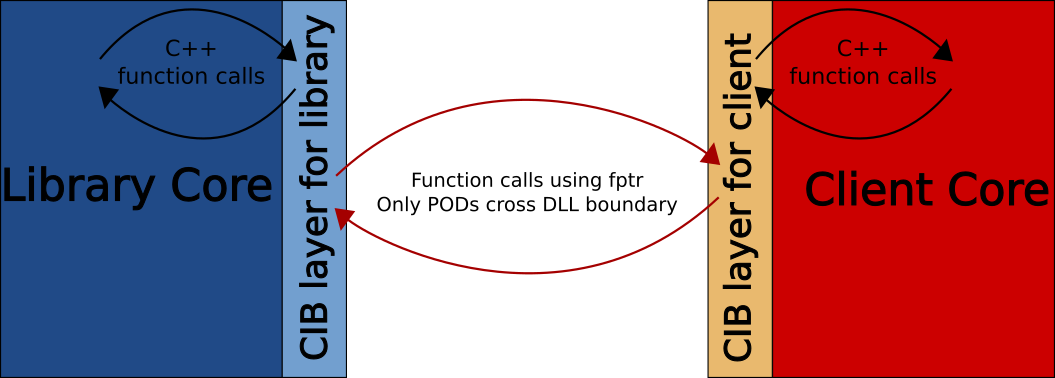
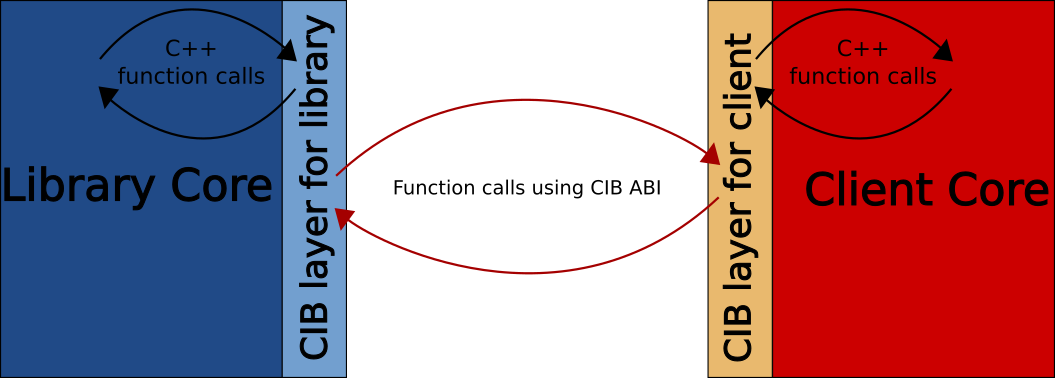
More documentation simplification.

Changed region(s): [[0.3336, 0.4656, 0.637, 0.582]]

diff --git a/README.md b/README.md
@@ -82,24 +82,9 @@ Some changes are conceptually unimportant for clients of a library but they brea
 # CIB Architecture
 
 ## Core architecture concept
-Because language feature implementations end up being ABI, see [What is ABI](#what-is-abi), CIB provides different implementation of language features at component boundary. So, the core of CIB architecture is to implement C++ language features differently at componenet boundary in such a way that the ABI can be guaranteed to bo compatible and easier to ensure stability.
-
-## High level architecture
-The high level architecture is that there will be thin layers added to both Library and Client. These layers will have code to ensure ABI compatible communication between the two layers. These layers will communicate with their corresponding component in usual way because they will always be compiled together and so no special things need to be done. Graphically it can be depicted as:
+As we know language feature implementations end up being ABI, see [What is ABI](#what-is-abi), CIB provides different implementation of language features at component boundary in such a way that the ABI can be guaranteed to be compatible and easier to ensure stability. Graphically it can be depicted as:
 
 ![Integration architecture produced by CIB](img/cib_design.png "Integration architecture produced by CIB ")
-
-### Library Side Glue Code
-The code that forms library side layer is called **library side glue code**. This layer contains the code to represent class as set of free functions. These free functions for a class are bundled together in an array. This array of pointers-to-free-functions is called **MethodTable**. To avoid name mangling done by compilers that ruin the ABI compatibility, the library needs to export the MethodTable instead.
-
-### Client Side Glue Code
-The code that forms client side layer is called **client side glue code**. This layer contains the code to reconstruct the class back from the MethodTable exported by library.
-
-### ABI Compatibility
-Since no C++ functions or objects are exported by library there is no problem of ABI compatibility. Anything that is exported by library is MethodTable which can be exported using `extern "C"` and so name mangling doesn't come into play.
-
-### ABI Stability
-Since only thing that is shared between client and library is MethodTable maintaining it's stability ensures ABI stability across releases.
 
 ## CIB Architecture Elements
 
@@ -109,7 +94,6 @@ Since only thing that is shared between client and library is MethodTable mainta
 - One set of files, that is called library side glue code, should be compiled with the library.
 - The other set should be used by the client of the library. This is client side glue code.
 - Library side glue code defines free C style functions for all functions including class methods, constructors, and destructors.
-- For non-static method of class the corresponding C function has aditional parameter which is pointer to class.
 - Implementation of such C functions are just to delegate the call to original function/method/constructor/destructor/etc.
 - All C functions are assigned an integer value as its ID. This ID for a function will remain same across releases.
 - For every class/struct/union/namespace a **MethodTable** is defined which is basically an array of function pointers.
@@ -118,7 +102,15 @@ Since only thing that is shared between client and library is MethodTable mainta
 - Function ID is used as an index to fetch function pointer from **MethodTable**.
 - Implementation of all functions including methods, constructors, and destructors of proxy classes are provided by means of invoking function pointer from MethodTable.
 
-Above is only broad description of CIB architecture. For understanding each peice of CIB architecture please have a look at **examples** below. Each example tries to explain one peice of CIB architecture. Since this project is also about developing a tool that will automatically implement CIB architecture for a library the examples mentioned shows the code generated by CIB. Please be forewarned that little paitence will be required to analyse such code. :)
+Above is only broad description of CIB architecture. For understanding each peice of CIB architecture please have a look at [Examples](examples). Each example tries to explain one peice of CIB architecture. Since this project is also about developing a tool that will automatically implement CIB architecture for a library the examples mentioned shows the code generated by CIB. Please be forewarned that little paitence will be required to analyse such code. :)
+
+### Library Side Glue Code
+The code that forms library side layer is called **library side glue code**. This layer contains the code to represent class as set of free functions. These free functions for a class are bundled together in an array. This array of pointers-to-free-functions is called **MethodTable**. To avoid name mangling done by compilers that ruin the ABI compatibility, the library needs to export the MethodTable instead.
+
+### Client Side Glue Code
+The code that forms client side layer is called **client side glue code**. This layer contains the code to reconstruct the class back from the MethodTable exported by library.
+
+[The rest of the details of CIB architecture can be understood with examples.](examples)
 
 # Building CIB
 ## Get the source
@@ -148,112 +140,6 @@ cd builds
 cmake -G Ninja ..
 ninja && ninja test
 ```
-
-# About CIB project
-This project is about creating a tool that implements CIB architecture. For detail explanation of architecture there are several examples. Examples are also automated tests. Each example tries to explain one part of architecture. To know the detail about how a particular feature works when CIB is used you can find the corresponding example. E.g. there is an example `runtime-polymorphism` to explain how polymorphism works across component boundary in ABI stable way. Each example contains two binary components. One is library and another is client which is an executable. In most cases it is sufficient to read `pub/example.h` and `src/example-client.cpp` files to understand what library exports and what client expects. Since these examples are also automated tests they can be run individually using ctest. For example `runtime-polymorphism` can be tested as:
-
-```sh
-ctest -R runtime-polymorphism
-```
-
-The output of above will be something like:
-
-```
-Test project /home/dassat/github/cib/builds
-    Start 3: runtime-polymorphism
-1/1 Test #3: runtime-polymorphism ......   Passed    0.01 sec
-
-100% tests passed, 0 tests failed out of 1
-
-Total Test time (real) =   0.01 sec
-```
-
-There are examples that uses client of another example to show ABI stability when the library is changed. For example running:
-
-```sh
-ctest -R virtual-function-and-bkwd-compatibility
-```
-
-Will give following output:
-
-```
-Test project /home/dassat/github/cib/build
-    Start 5: virtual-function-and-bkwd-compatibility
-1/2 Test #5: virtual-function-and-bkwd-compatibility ....................   Passed    0.00 sec
-    Start 6: virtual-function-and-bkwd-compatibility-new-lib-with-old-client
-2/2 Test #6: virtual-function-and-bkwd-compatibility-new-lib-with-old-client ...   Passed    0.00 sec
-
-100% tests passed, 0 tests failed out of 2
-
-Total Test time (real) =   0.01 sec
-```
-
-It ran 2 tests. First one tests that new client works as expected with new library. The second one tests that old client (without recompilation) works with newer library. For details about what change library made please have a look at corresponding `example.h` file.
-
-Now we will delve into examples to know the details of CIB architecture.
-
-# Examples aka CIB Architecture Details
- We will learn about bits and peices of CIB architecture through code generated by `cib`. We will start with trivial example and slowly build on that to understand what CIB architecture requires in more complex cases. Except the declaration of proxy classes that client's will use, all other code generated by cib are solely for compilers. But we will look into generated code to understand CIB architecture.
-
-**Note**: All examples mentioned below are real programs, however tiny, they are working piece of code and are actually part of automated tests of cib:
-- Almost all examples contain a library and a client executable.
-- Library consists of a public header and a source file.
-- Most functions simply return an `int`.
-- `cib` tool is used on public header that
-    - generates glue code for library and clients.
-    - generates cibified headers that becomes part of the SDK.
-- Client is an executable that tests correct behavior of library.
-
-## Types of Examples:
-There are 3 types of examples:
-- Examples that tests basic C++ feature of cibified SDK.
-- Examples that tests cibified SDK offers **backward compatibility**, such tests have `bkwd-compatibility` in it's name.
-- Examples that tests cibified SDK offers **forward compatibility**, tests that have `forwd-compatibility` in it's name.
-
-## Example - A Simple Class
-This example explains the basic building blocks of CIB architecture and how CIB defines it's own ABI that ensures ABI stability. This example doesn't demonstrate ABI stability yet, which is done in other examples, but it is just to explain the fundamentals of CIB architecture and CIB tool.
-
-For details please see [A Simple Class example](examples/010-simple-class)
-
-## Example - Virtual Function
-This example explains how runtime polymorphic calls can be made across component boundary in an ABI stable way. This example too is just to explain required building blocks. In the next example we will consider the ABI stability.
-
-For details please see [Virtual Function example](examples/020-virtual-function)
-
-## Example - Virtual Function and ABI Stability
-
-This is the example that demonstrates how CIB ensures ABI stability even when virtual table is disrupted. This example is built on the previous one and creates a new library with disrupted virtual table. Then it runs both, the new client and also old the client (i.e. the client of previous example). That demostrates that CIB ensures ABI stability when virtual table is disrupted.
-
-For details please see [Virtual Function and ABI Stability example](examples/030-virtual-function-and-bkwd-compatibility)
-
-## Example - Interface Classes
-
-In this example we explore what pieces of architecture should be there to ensure calls made by library to client happens in ABI compatible and stable way.
-
-For details please see [Interface Class example](examples/060-simple-interface-class)
-
-## Example - Interface Classes and ABI Stability
-
-In this example we will see that how ABI stability is guaranteed when virtual table of interface class is disrupted.
-
-For details please see [Interface Class And ABI Sytability example](examples/070-simple-interface-class-and-bkwd-compatibility)
-
-## Example - C++ Template Classes
-In this example we consider what CIB architecture needs to do to support template classes and how concretized types of template class can cross component boundary in ABI compatible and stable way.
-
-For details please see [C++ Template Classes example](examples/100-template-classes)
-
-## Example - Facade Classes and RTTI
-
-Please see example `facade-classes-and-rtti` in `examples` folder.
-
-**TODO**: Add detail documentation.
-
-## Example - Non public virtual functions.
-
-Please see example `private-virtuals` in `examples` folder.
-
-**TODO**: Add detail documentation.
 
 # Possible Optimization
 
@@ -294,14 +180,14 @@ Please see example `layout-sharing-proxy-classes` for more detail.
 # Limitations of CIB Architecture
 CIB Architecture is good for ensuring ABI compatibility and stability. But unfortunately these goodness are not free. CIB architecture has limitations too:
 
-| Limitation                                                         | Reason                                                                                                                                                                                                                                                                                                                                                                                                                                                  | Workaround, if any                                                                   |
-| ------------------------------------------------------------------ | :------------------------------------------------------------------------------------------------------------------------------------------------------------------------------------------------------------------------------------------------------------------------------------------------------------------------------------------------------------------------------------------------------------------------------------------------------ | :----------------------------------------------------------------------------------- |
-| Mandatory creation of proxy objects                                | The core philosophy of CIB is to not share internals with other components. For that reason each component have their own objects. The library objects used by client are used through proxies which are created at client side and act as if they are client side objects. So, for every library side object that client want to use, a corresponding proxy object is also created. It adds up to use of more memory and cost runtime performance too. | Use layout sharing proxy wherever applicable                                         |
-| Objects of library are always created on heap by the client        | This is not true for layout sharing proxy classes but when client creates an object of isolated proxy object the corresponding object on library side is always created on heap.                                                                                                                                                                                                                                                                        | Use layout sharing proxy wherever applicable                                         |
-| Increased binary size and memory usage                             | Because of proxy objects and their special implementation using **MethodTable** binary size and memory usage of both library and client increases.                                                                                                                                                                                                                                                                                                      | Use layout sharing proxy wherever applicable                                         |
-| Impact on runtime performance                                      | CIB layers costs runtime performance too because there is no inline function across component, multiple function calls involved for a single call across component, and cross component function calls happen always through function pointer.                                                                                                                                                                                                          | In practice these costs may not be significant.                                      |
-| No raw array of objects can cross component boundary in most cases | Except when the proxy class is layout sharing type it is not possible to share raw array of objects across component boundary.                                                                                                                                                                                                                                                                                                                          | Return a container object instead or use layout sharing proxy wherever applicable.   |
-| In some cases explicit cleanup of proxy objects.                   | Clients can only use library objects through proxies. And so when library returns an object which is not expected to be deleted then client will never delete the proxy object. Such object will be left without deletion and so they may need explicit cleanup. [See more on explicit proxy cleanup](#more-on-explicit-proxy-cleanup), and [Possible Improvement](#possible-improvement.                                                               | Use `shared_ptr`, or `unique_ptr`. Or, Use layout sharing proxy wherever applicable. |
+| Limitation                                                  | Reason       | Workaround, if any |
+| ---------------------------------                           | :----------  | :----------------- |
+| Mandatory creation of proxy objects                         | The core philosophy of CIB is to not share internals with other components. For that reason each component have their own objects. The library objects used by client are used through proxies which are created at client side and act as if they are client side objects. So, for every library side object that client want to use, a corresponding proxy object is also created. It adds up to use of more memory and cost runtime performance too.                                                             | Use layout sharing proxy wherever applicable |
+| Objects of library are always created on heap by the client | This is not true for layout sharing proxy classes but when client creates an object of isolated proxy object the corresponding object on library side is always created on heap.   | Use layout sharing proxy wherever applicable |
+| Increased binary size and memory usage                      | Because of proxy objects and their special implementation using **MethodTable** binary size and memory usage of both library and client increases.                           | Use layout sharing proxy wherever applicable |
+| Impact on runtime performance                               | CIB layers costs runtime performance too because there is no inline function across component, multiple function calls involved for a single call across component, and cross component function calls happen always through function pointer. | In practice these costs may not be significant. |
+| No raw array of objects can cross component boundary in most cases | Except when the proxy class is layout sharing type it is not possible to share raw array of objects across component boundary.                                           | Return a container object instead or use layout sharing proxy wherever applicable. |
+| In some cases explicit cleanup of proxy objects.            | Clients can only use library objects through proxies. And so when library returns an object which is not expected to be deleted then client will never delete the proxy object. Such object will be left without deletion and so they may need explicit cleanup. [See more on explicit proxy cleanup](#more-on-explicit-proxy-cleanup), and [Possible Improvement](#possible-improvement. | Use `shared_ptr`, or `unique_ptr`. Or, Use layout sharing proxy wherever applicable. |
 
 ## More on explicit proxy cleanup
 
@@ -331,38 +217,38 @@ Build **draw** and run it. Make changes in headers of **graphics** and build jus
 
 # Feature Progress of CIB tool
 
-| Feature                                  | Description                                                                                                                                                                                                                                                                                         | Status          |
-| ---------------------------------------- | :-------------------------------------------------------------------------------------------------------------------------------------------------------------------------------------------------------------------------------------------------------------------------------------------------- | :-------------- |
-| Basic                                    | CIB should work for a simple library that exports classes with non-virtual functions.                                                                                                                                                                                                               | Done            |
-| Virtual functions and inheritance        | CIB should make virtual function and inheritance available to clients.                                                                                                                                                                                                                              | Done            |
-| Function overloading                     | Same named functions of a class should be seamlessly exported.                                                                                                                                                                                                                                      | Done            |
-| Function overridding                     | Allow library to use interface implemented by client.                                                                                                                                                                                                                                               | Done            |
-| Forward compatibility of client          | Older client works with newer library.                                                                                                                                                                                                                                                              | Done            |
-| Forward compatibility of library         | Library should be ABI compatible with newer client. As of now library and client can catch exception when non existing function is called and should take corrective measures to work with newer component.                                                                                         | Done            |
-| Backward compatibility of client         | When newer client invokes a method present only in new SDK then std::bad\_function\_call exception will be thrown. Clients that want to be backward compatible should handle this exception when invoking methods present only in newer SDK.                                                        | Done            |
-| Backward compatibility of library        | When library invokes a method of interface implemented by only newer client then std::bad\_function\_call exception will be thrown. Library developer should be aware about this to remain backward compatible when invoking new methods of it's own public interface.                              | Done            |
-| Create correct proxy class               | A base class pointer returned by an API of library may actually be pointing to an object of a derived class. At client side we should create proxy class of exact same type to which the returned pointer is pointing to. It is needed so that dynamic_cast at client side should work as expected. | Done            |
-| Operator overloading                     | It is common for C++ classes to have overloaded operators.                                                                                                                                                                                                                                          | Done            |
-| Typecast operator overloading            | Typecast operator overloading of user defined types is common in C++.                                                                                                                                                                                                                               | Done            |
-| Simple Template class support            | Support for simple template classes when it crosses component boundary. Simple template means without template template argument, or any of other fancy stuff.                                                                                                                                      | Done            |
-| Return existing proxy class              | If a function returns pointer or reference of object for which proxy class already exists then existing proxy class should be returned.                                                                                                                                                             | Done            |
-| Support protected methods                | Protected methods are accessible to derived class and they should be exported so that client's derived class can call them.                                                                                                                                                                         | Done            |
-| Support private pure virtual             | Private pure virtual is used in template method design pattern.                                                                                                                                                                                                                                     | Done            |
-| Rvalue reference parameter               | RValue references need to cross component boundary.                                                                                                                                                                                                                                                 | Done            |
-| Support of free functions                | Free functions in global and orher namespaces too should be supported.                                                                                                                                                                                                                              | Done            |
-| **Goal**: Use CIB in real production SDK | To demonstrably prove viability of this architecture and tool it will be better to use it for at least one large production quality software. My plan is to use CIB for ObjectARX SDK of AutoCAD to demonstrate it's viability.                                                                     | **IN PROGRESS** |
-| **Phase1**: For AutoCAD SDK subset       | Make CIB work for ObjectARX SDK even when it requires changing of SDK headers to avoid problems of SDK and/or the tool.                                                                                                                                                                             | **DONE**        |
-| **Phase2**: For complete AutoCAD SDK     | Improve tool so that only minimal change in ObjectARX SDK is required and that too only to avoid problems of SDK and not of tool.                                                                                                                                                                   | **IN PROGRESS** |
-| Support deleted members                  | Constructors and operators marked as `delete` should be deleted for proxy classes as well.                                                                                                                                                                                                          |                 |
-| Enum and enum classes                    | Enums used as parameter or return type.                                                                                                                                                                                                                                                             |
-| STL classes                              | It is common for a C++ programs to use stl classes. CIB should make it possible to export STL classes in the same way it does for every other classes.                                                                                                                                              |
-| Support shared_ptr and unique_ptr        | Modern C++ programing expects these to be used more often.                                                                                                                                                                                                                                          |
-| Exception support                        | Make exception object travel across component boundary in a compatible way.                                                                                                                                                                                                                         |
-| Function pointer as parameter            | Function pointers can be used as parameter or return type of another function.                                                                                                                                                                                                                      |                 |
-| Support std::function                    | std::function can be used as function parameter or return type. They too should be supported.                                                                                                                                                                                                       |                 |
-| Support for intrusive pointer            | Many libraries use intrusive pointer to manage object life cyle and functions can return smart pointer for intrusively managed reference count of object.                                                                                                                                           |
-| Non-const pointer ref return type        | When a reference of pointer of non-POD is returned from a function a change in that should be propagated to the library.                                                                                                                                                                            |
-| Support public data members              | Public data members of a class should be exported in ABI stable way.                                                                                                                                                                                                                                |
+| Feature                                   | Description | Status |
+| ---------------------------------         | :---------- | :----- |
+| Basic                                     | CIB should work for a simple library that exports classes with non-virtual functions. | Done |
+| Virtual functions and inheritance         | CIB should make virtual function and inheritance available to clients. | Done |
+| Function overloading                      | Same named functions of a class should be seamlessly exported. | Done |
+| Function overridding                      | Allow library to use interface implemented by client. | Done |
+| Forward compatibility of client           | Older client works with newer library. | Done |
+| Forward compatibility of library          | Library should be ABI compatible with newer client. As of now library and client can catch exception when non existing function is called and should take corrective measures to work with newer component. | Done |
+| Backward compatibility of client          | When newer client invokes a method present only in new SDK then std::bad\_function\_call exception will be thrown. Clients that want to be backward compatible should handle this exception when invoking methods present only in newer SDK. | Done |
+| Backward compatibility of library         | When library invokes a method of interface implemented by only newer client then std::bad\_function\_call exception will be thrown. Library developer should be aware about this to remain backward compatible when invoking new methods of it's own public interface. | Done   |
+| Create correct proxy class                | A base class pointer returned by an API of library may actually be pointing to an object of a derived class. At client side we should create proxy class of exact same type to which the returned pointer is pointing to. It is needed so that dynamic_cast at client side should work as expected. | Done |
+| Operator overloading                      | It is common for C++ classes to have overloaded operators. | Done |
+| Typecast operator overloading             | Typecast operator overloading of user defined types is common in C++. | Done |
+| Simple Template class support             | Support for simple template classes when it crosses component boundary. Simple template means without template template argument, or any of other fancy stuff. | Done|
+| Return existing proxy class               | If a function returns pointer or reference of object for which proxy class already exists then existing proxy class should be returned. | Done|
+| Support protected methods                 | Protected methods are accessible to derived class and they should be exported so that client's derived class can call them. | Done|
+| Support private pure virtual              | Private pure virtual is used in template method design pattern. | Done|
+| Rvalue reference parameter                | RValue references need to cross component boundary. | Done|
+| Support of free functions                 | Free functions in global and orher namespaces too should be supported. | Done |
+| **Goal**: Use CIB in real production SDK  | To demonstrably prove viability of this architecture and tool it will be better to use it for at least one large production quality software. My plan is to use CIB for ObjectARX SDK of AutoCAD to demonstrate it's viability. | **IN PROGRESS** |
+| **Phase1**: For AutoCAD SDK subset        | Make CIB work for ObjectARX SDK even when it requires changing of SDK headers to avoid problems of SDK and/or the tool. | **DONE** |
+| **Phase2**: For complete AutoCAD SDK      | Improve tool so that only minimal change in ObjectARX SDK is required and that too only to avoid problems of SDK and not of tool. | **IN PROGRESS** |
+| Support deleted members                   | Constructors and operators marked as `delete` should be deleted for proxy classes as well. ||
+| Enum and enum classes                     | Enums used as parameter or return type. |
+| STL classes                               | It is common for a C++ programs to use stl classes. CIB should make it possible to export STL classes in the same way it does for every other classes. |
+| Support shared_ptr and unique_ptr         | Modern C++ programing expects these to be used more often. |
+| Exception support                         | Make exception object travel across component boundary in a compatible way. |
+| Function pointer as parameter             | Function pointers can be used as parameter or return type of another function. ||
+| Support std::function                     | std::function can be used as function parameter or return type. They too should be supported. ||
+| Support for intrusive pointer             | Many libraries use intrusive pointer to manage object life cyle and functions can return smart pointer for intrusively managed reference count of object. |
+| Non-const pointer ref return type         | When a reference of pointer of non-POD is returned from a function a change in that should be propagated to the library.|
+| Support public data members               | Public data members of a class should be exported in ABI stable way. |
 
 ---
 
